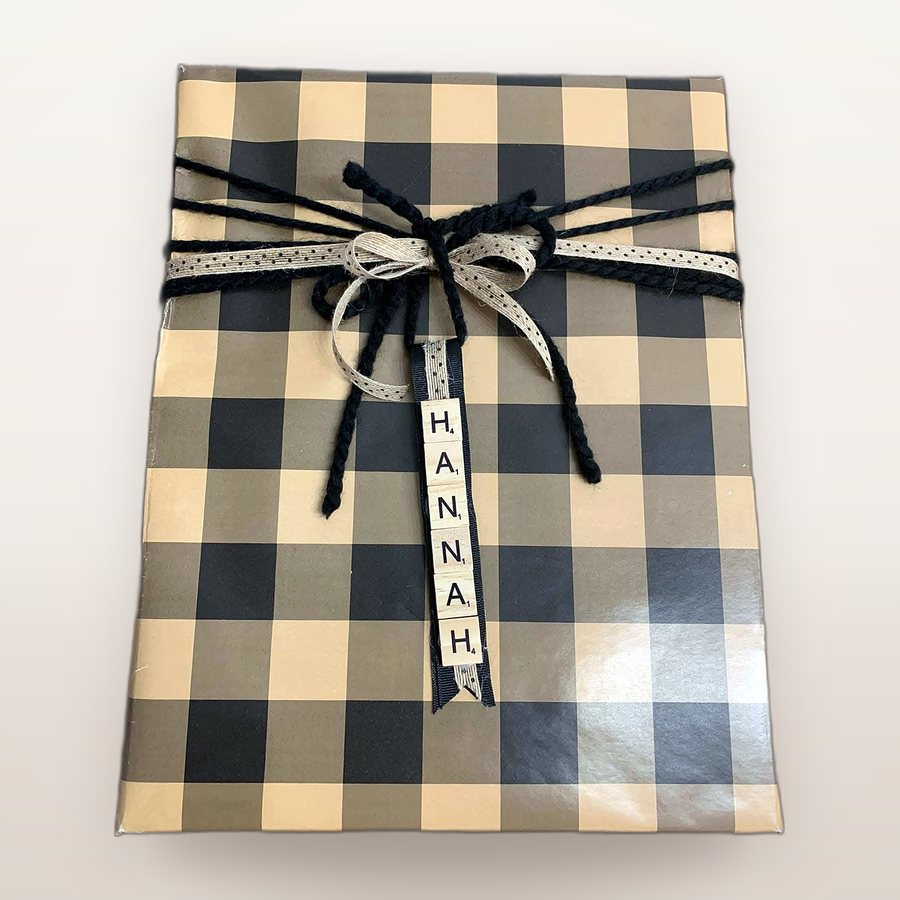
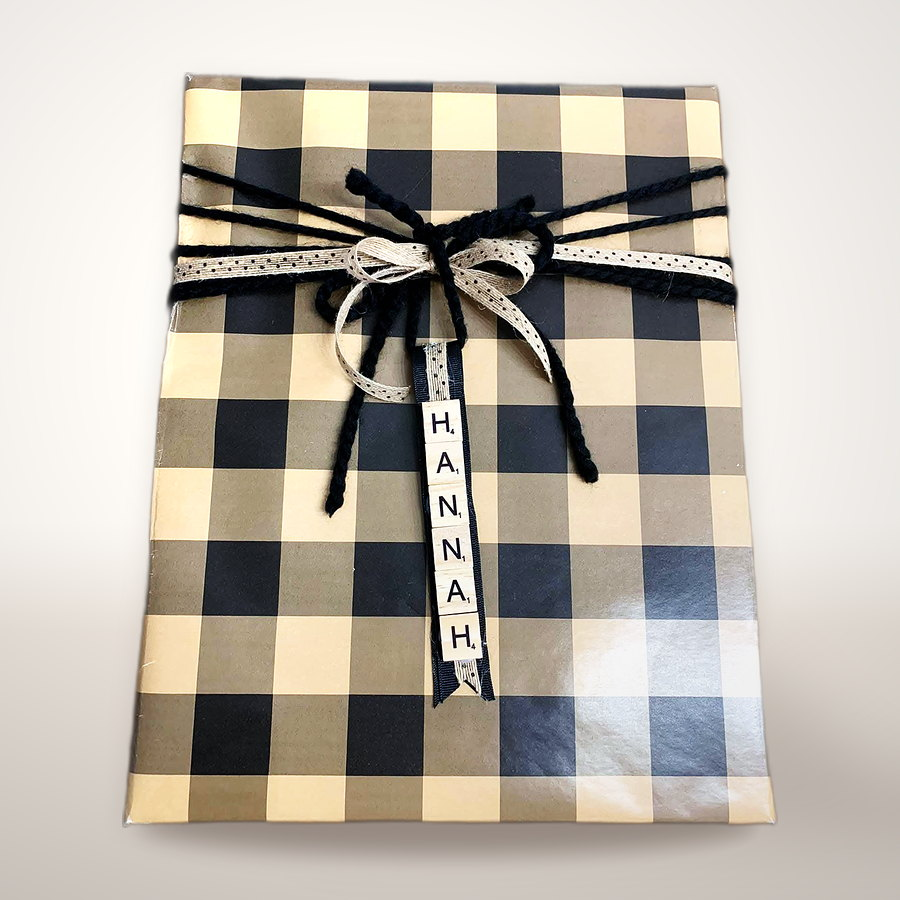
Relight portfolio photos for a product-shot look
- White balance per gift (removes indoor yellow cast), tone curve with
  shadow lift and vibrance, soft upper-left key light on each subject
- Edge decontamination to remove halos from the cut-outs
- Directional cast shadow plus tight contact shadow, on a lit backdrop
  with a subtle wall-to-surface horizon
- Processing script kept in assets/photos/studio.py for future photos

Claude-Session: https://claude.ai/code/session_016JQtQKJMKXSfWYB8dAVTZy

Changed region(s): [[0.1244, 0.0622, 1.0, 1.0]]

diff --git a/thank-you.html b/thank-you.html
@@ -78,11 +78,11 @@
   <span class="kicker">Thank you</span><h1>Your request has been received</h1><p class="lede">We will reply within one business day with pricing and next steps. For anything urgent, text 540-340-4905.</p>
 </div></div>
 <section><div class="wrap" style="text-align:center"><div class="gift-tile reveal in" style="background:#fde4ee;width:220px;margin:0 auto 24px"><svg viewBox="0 0 200 200" aria-hidden="true">
-<defs><pattern id="d81476" width="10" height="10" patternUnits="userSpaceOnUse"><circle cx="5" cy="5" r="1.8" fill="#fff"/></pattern></defs>
+<defs><pattern id="d21976" width="10" height="10" patternUnits="userSpaceOnUse"><circle cx="5" cy="5" r="1.8" fill="#fff"/></pattern></defs>
 <rect x="30" y="86" width="140" height="94" rx="8" fill="#fff"/>
 <rect x="22" y="70" width="156" height="30" rx="5" fill="#fde4ee" stroke="#fff" stroke-width="2"/>
-<rect x="86" y="70" width="28" height="110" fill="#e5648f"/><rect x="86" y="70" width="28" height="110" fill="url(#d81476)"/>
-<rect x="22" y="78" width="156" height="14" fill="#e5648f"/><rect x="22" y="78" width="156" height="14" fill="url(#d81476)"/>
+<rect x="86" y="70" width="28" height="110" fill="#e5648f"/><rect x="86" y="70" width="28" height="110" fill="url(#d21976)"/>
+<rect x="22" y="78" width="156" height="14" fill="#e5648f"/><rect x="22" y="78" width="156" height="14" fill="url(#d21976)"/>
 <path d="M100 74c-14-4-40-26-30-38s26 18 30 38zm0 0c14-4 40-26 30-38s-26 18-30 38z" fill="#b23a5e"/>
 <path d="M100 74c-6 6-18 18-26 12s10-16 26-12zm0 0c6 6 18 18 26 12s-10-16-26-12z" fill="#e5648f"/>
 <circle cx="100" cy="72" r="8" fill="#b23a5e"/><circle cx="97" cy="69" r="2.5" fill="#fff" opacity=".7"/>

diff --git a/assets/photos/studio.py b/assets/photos/studio.py
@@ -1,0 +1,165 @@
+"""Studio v2: cut-out + relight + directional shadows on a lit backdrop."""
+from rembg import remove, new_session
+from PIL import Image, ImageOps, ImageFilter, ImageChops, ImageDraw
+import numpy as np, pathlib, sys, time
+U = pathlib.Path('/root/.claude/uploads/e47ac2d3-6f0e-5f1a-8d8f-dfa7b433f156')
+OUT = pathlib.Path('assets/photos'); OUT.mkdir(exist_ok=True)
+CUT = pathlib.Path('/tmp/claude-0/cutouts'); CUT.mkdir(exist_ok=True, parents=True)
+sess = new_session("isnet-general-use"); sess_u2 = new_session("u2net")
+U2NET = {"3f236cb7", "a082a12c", "2ff12bbc", "726a9940"}
+SQ = (900, 900); HERO = (1200, 1500); LAND = (1400, 933)
+SPECS = {
+ 'hero-navy-chiffon':   ('182b1b47', HERO, True,  None),
+ 'about-hannah':        ('3f236cb7', HERO, True,  None),
+ 'sq-rainbow-box':      ('cce4d41b', SQ, False, None),
+ 'sq-hannah-check':     ('3f236cb7', SQ, True,  None),
+ 'sq-christmas-gold':   ('2ff12bbc', SQ, True,  None),
+ 'sq-western-rose':     ('f953b99b', SQ, True,  None),
+ 'sq-flamingo':         ('3945b91d', SQ, False, None),
+ 'sq-dad-shirt':        ('4dc32eeb', SQ, False, None),
+ 'sq-purple-organza':   ('161109a9', SQ, False, None),
+ 'sq-vols':             ('39539df9', SQ, False, None),
+ 'sq-nutcracker':       ('34ebf013', SQ, True,  None),
+ 'sq-bee-stack':        ('50c52199', SQ, False, None),
+ 'sq-trees-burlap':     ('caf7879e', SQ, False, None),
+ 'sq-paisley':          ('3e9d56c3', SQ, True,  None),
+ 'corp-purple-set':     ('3e409de2', LAND, False, None),
+ 'sq-special-delivery': ('c3f0febb', SQ, True,  None),
+ 'sq-pompom-stack':     ('8b7f17b9', SQ, False, None),
+ 'sq-snowflake-cube':   ('8727f463', SQ, False, None),
+ 'sq-purple-joy':       ('726a9940', SQ, False, None),
+ 'land-colorful-trees': ('750f1b45', LAND, False, None),
+ 'sq-wedding-navy':     ('182b1b47', SQ, True,  (0, .6)),
+ 'sq-bridal-dots':      ('a082a12c', SQ, True,  None),
+ 'sq-baby-shower':      ('d59d1308', SQ, False, None),
+ 'sq-camo-birthday':    ('efd1c6e1', SQ, False, None),
+}
+ONLY = sys.argv[1:]
+def find(uid): return next(U.glob(uid + '*'))
+
+def cutout(uid):
+    f = CUT / (uid + '.png')
+    if f.exists(): return Image.open(f).convert('RGBA')
+    im = ImageOps.exif_transpose(Image.open(find(uid))).convert('RGB'); im.thumbnail((1600, 1600), Image.LANCZOS)
+    out = remove(im, session=sess_u2) if uid in U2NET else remove(im, session=sess, alpha_matting=True,
+          alpha_matting_foreground_threshold=240, alpha_matting_background_threshold=10, alpha_matting_erode_size=6)
+    out.save(f); return out
+
+def best_angle(alpha):
+    a = alpha.copy(); a.thumbnail((320, 320)); best = (0, 1e18)
+    for i in range(-40, 41):
+        ang = i*0.25; r = a.rotate(ang, expand=True, resample=Image.BILINEAR)
+        bb = r.point(lambda v: 255 if v > 128 else 0).getbbox()
+        if bb:
+            area = (bb[2]-bb[0])*(bb[3]-bb[1])
+            if area < best[1]: best = (ang, area)
+    return best[0]
+
+# ---------- edge & colour work (numpy) ----------
+def clean_edges(rgba):
+    """Erode alpha 1px, feather, and pull edge colours from the interior to kill halos."""
+    a = rgba.split()[3].filter(ImageFilter.MinFilter(3)).filter(ImageFilter.GaussianBlur(0.8))
+    arr = np.asarray(rgba).astype(np.float32); al = np.asarray(a).astype(np.float32)/255.0
+    rgb = arr[..., :3]
+    # interior colour spread: premultiplied blur / blurred alpha
+    pre = Image.fromarray((rgb*al[..., None]).astype(np.uint8)).filter(ImageFilter.GaussianBlur(3))
+    ab = Image.fromarray((al*255).astype(np.uint8)).filter(ImageFilter.GaussianBlur(3))
+    pre = np.asarray(pre).astype(np.float32); ab = np.asarray(ab).astype(np.float32)/255.0
+    fill = pre/np.maximum(ab[..., None], 1e-3)
+    w = np.clip((0.92 - al)/0.92, 0, 1)[..., None]      # blend toward interior colour near the edge
+    rgb = rgb*(1-w) + fill*w
+    out = np.dstack([np.clip(rgb, 0, 255), al*255]).astype(np.uint8)
+    return Image.fromarray(out, 'RGBA')
+
+def white_balance(rgb, al, strength=0.75):
+    m = al > 0.95
+    px = rgb[m]
+    if len(px) < 500: return rgb
+    lum = px.mean(1); top = px[lum >= np.percentile(lum, 97)]
+    ref = top.mean(0); gain = ref.mean()/np.maximum(ref, 1)
+    gain = 1 + (gain-1)*strength; gain = np.clip(gain, 0.88, 1.18)
+    return np.clip(rgb*gain, 0, 255)
+
+def tone(rgb, al):
+    m = al > 0.95; px = rgb[m]
+    lo, hi = np.percentile(px, 0.5), np.percentile(px, 99.6)
+    rgb = (rgb - lo)*(255/max(hi-lo, 1)); rgb = np.clip(rgb, 0, 255)
+    x = rgb/255.0
+    x = x + 0.06*np.sin(np.pi*x)*(1-x)           # lift shadows
+    x = np.clip(0.5 + (x-0.5)*1.08, 0, 1)         # gentle contrast
+    x = 0.5 + 0.5*np.tanh(2.2*(x-0.5))/np.tanh(1.1)  # soft S curve
+    # vibrance: boost low-saturation colours a little more than saturated ones
+    mx, mn = x.max(2, keepdims=True), x.min(2, keepdims=True); sat = mx-mn
+    mean = x.mean(2, keepdims=True); x = mean + (x-mean)*(1 + 0.12*(1-sat))
+    return np.clip(x, 0, 1)*255
+
+def key_light(rgb, al):
+    """Soft key from upper-left: brighter top-left, gently darker bottom-right, plus a rim of light along the top."""
+    h, w = al.shape; yy, xx = np.mgrid[0:h, 0:w]
+    g = 1.07 - 0.14*((xx/w)*0.45 + (yy/h)*0.55)
+    top = np.exp(-((yy/h)/0.12)**2)*0.05
+    return np.clip(rgb*(g+top)[..., None], 0, 255)
+
+def relight(rgba):
+    rgba = clean_edges(rgba)
+    arr = np.asarray(rgba).astype(np.float32); rgb, al = arr[..., :3], arr[..., 3]/255.0
+    rgb = white_balance(rgb, al); rgb = tone(rgb, al); rgb = key_light(rgb, al)
+    out = Image.fromarray(np.dstack([rgb, al*255]).astype(np.uint8), 'RGBA')
+    r = out.convert('RGB').filter(ImageFilter.UnsharpMask(radius=1.1, percent=48, threshold=2))
+    r = r.convert('RGBA'); r.putalpha(out.split()[3]); return r
+
+# ---------- set ----------
+def backdrop(w, h):
+    base = np.zeros((h, w, 3), np.float32)
+    yy, xx = np.mgrid[0:h, 0:w]; u, v = xx/w, yy/h
+    wall = np.array([251, 248, 244], np.float32); floor = np.array([238, 230, 222], np.float32)
+    hz = 0.64; t = np.clip((v-hz+0.06)/0.12, 0, 1)[..., None]
+    base = wall*(1-t) + floor*t
+    base *= (1 - 0.07*np.clip(v-hz, 0, 1)/(1-hz))[..., None]           # floor falls off toward bottom
+    spot = np.exp(-(((u-0.3)/0.75)**2 + ((v-0.25)/0.7)**2))             # key light pool upper-left
+    base *= (0.93 + 0.10*spot)[..., None]
+    vig = 1 - 0.06*np.clip(np.sqrt((u-0.5)**2 + (v-0.5)**2)-0.35, 0, 1)/0.35
+    base *= vig[..., None]
+    return Image.fromarray(np.clip(base, 0, 255).astype(np.uint8))
+
+def shadows(W, H, a, x, y, sw):
+    """cast shadow (offset down-right with light from upper-left, blurred more with distance) + contact shadow."""
+    cast = Image.new('L', (W, H), 0)
+    # perspective squash: scale silhouette vertically to lie on the floor, skew right
+    sh = a.resize((a.width, max(1, int(a.height*0.26))), Image.BILINEAR)
+    sk = sh.transform((sh.width + int(sh.height*0.9), sh.height), Image.AFFINE, (1, -0.9, 0, 0, 1, 0), Image.BILINEAR)
+    cast.paste(sk, (x + int(sw*0.02), y + a.height - sh.height + int(sw*0.02)))
+    cast = cast.filter(ImageFilter.GaussianBlur(sw*0.05)).point(lambda v: int(v*0.22))
+    contact = Image.new('L', (W, H), 0)
+    ew, eh = int(sw*0.96), int(sw*0.10)
+    ell = Image.new('L', (ew, eh), 0); ImageDraw.Draw(ell).ellipse((0, 0, ew-1, eh-1), fill=255)
+    contact.paste(ell, (x + (sw-ew)//2, y + a.height - eh//2 - int(sw*0.008)))
+    contact = contact.filter(ImageFilter.GaussianBlur(sw*0.018)).point(lambda v: int(v*0.55))
+    amb = Image.new('L', (W, H), 0); amb.paste(a, (x, y + int(sw*0.012)))
+    amb = amb.filter(ImageFilter.GaussianBlur(sw*0.02)).point(lambda v: int(v*0.18))
+    return ImageChops.lighter(ImageChops.lighter(cast, contact), amb)
+
+def compose(name, uid, canvas, straighten, focus):
+    sub = cutout(uid)
+    if straighten:
+        ang = best_angle(sub.split()[3])
+        if 0 < abs(ang) <= 10: sub = sub.rotate(ang, expand=True, resample=Image.BICUBIC)
+    bb = sub.split()[3].point(lambda v: 255 if v > 40 else 0).getbbox(); sub = sub.crop(bb)
+    if focus: h = sub.height; sub = sub.crop((0, int(h*focus[0]), sub.width, int(h*focus[1])))
+    sub = relight(sub)
+    W, H = canvas; pad = 0.08
+    s = min(W*(1-2*pad)/sub.width, H*(1-2*pad)/sub.height)
+    sub = sub.resize((max(1, int(sub.width*s)), max(1, int(sub.height*s))), Image.LANCZOS)
+    x = (W - sub.width)//2
+    y = max(int(H*pad), min(int(H*0.64) + int(H*0.15) - sub.height, H - sub.height - int(H*pad)))
+    bg = backdrop(W, H)
+    bg.paste(Image.new('RGB', (W, H), (96, 80, 72)), mask=shadows(W, H, sub.split()[3], x, y, sub.width))
+    bg.paste(sub, (x, y), sub)
+    bg = bg.filter(ImageFilter.UnsharpMask(radius=0.8, percent=20, threshold=3))
+    bg.save(OUT/(name+'.jpg'), 'JPEG', quality=86, optimize=True, progressive=True, subsampling=1)
+    return sub.size
+
+t = time.time()
+for name, spec in SPECS.items():
+    if ONLY and name not in ONLY: continue
+    print(f"{name:22} {compose(name, *spec)} {time.time()-t:4.0f}s", flush=True)

diff --git a/assets/photos/README.md b/assets/photos/README.md
@@ -1,9 +1,9 @@
 # Photos
 
-Every image here is a real order wrapped by Amiebeth, given a consistent "studio"
-treatment: the gift is cut out of the original snapshot, straightened where it was a
-top-down shot, colour-corrected and placed on a warm off-white backdrop with a soft
-shadow. `wide-holiday-display.jpg` is the one untouched environmental shot (used as a
+Every image here is a real order wrapped by Amiebeth, given a consistent studio
+treatment by `studio.py`: the gift is cut out of the original snapshot, straightened
+where it was a top-down shot, white-balanced, tone-corrected, lit from the upper left
+and placed on a warm backdrop with a cast shadow and contact shadow. `wide-holiday-display.jpg` is the one untouched environmental shot (used as a
 banner with a dark overlay).
 
 To add more, send Claude the originals. Phone photos are fine; the treatment handles
